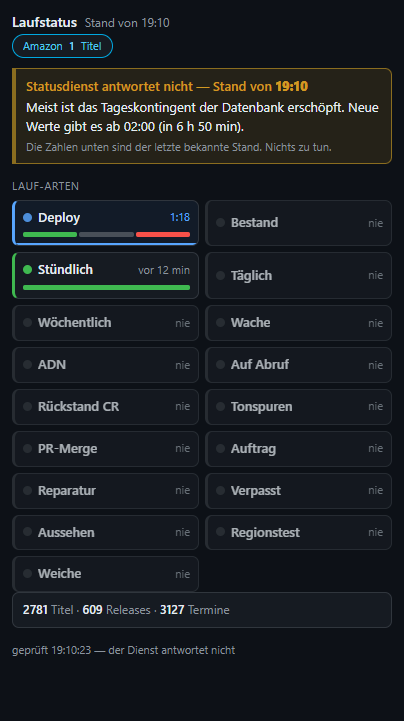
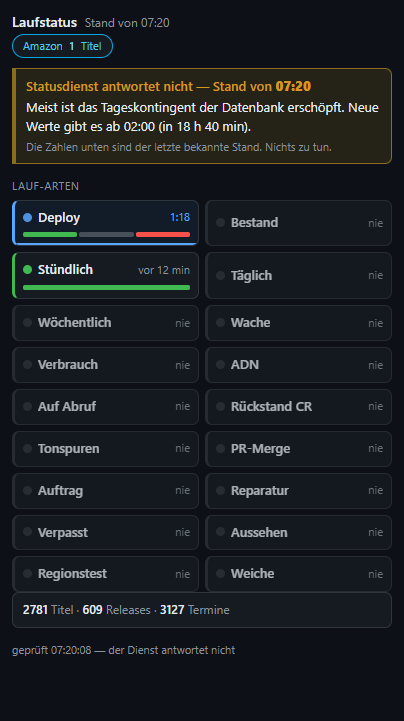
perf(d1): Kaestchen-Abruf auf zwoelf Zeilen je Lauf-Art - 3666 auf 216 je Aufruf
Der von mir verursachte Posten (Fensterfunktion scannt die ganze Tabelle) ist
weg: eine Abfrage je Lauf-Art (WHERE workflow = ?1 ... LIMIT 12), gebuendelt in
einem batch. Gemessen mit meta.rows_read: 3666 -> 12 je Art, also ~216 fuer 18
Arten - und es waechst nicht mehr mit dem Bestand.

Die Liste der Lauf-Arten steht jetzt in worker/src/lauf-sql.ts (18 Eintraege);
check:logic haelt sie gegen .github/workflows/*.yml - sie schlug sofort an, weil
die neue Verbrauchswache in beiden Listen fehlte. Die Statusanzeige kennt sie
jetzt ebenfalls (Kachel 'Verbrauch'), ihr Prueflauf erwartet 18 Kacheln.

Beweis am Zeilenzaehler (dieselben Anweisungen, vorher/nachher):
  Adress-Liste  ?zaehlen=1    8444 -> 1
  Seiten-Loeschung            3182 -> 0
  Kaestchen-Abruf             3666 -> 12 je Art

diff --git a/worker/src/lauf-sql.ts b/worker/src/lauf-sql.ts
@@ -28,17 +28,45 @@ export const SQL_VERLAUF = `SELECT lauf_id, zustand, auftrag, notiz, url, begonn
       ORDER BY gemeldet_am DESC
       LIMIT ?2`
 
-/** Je Lauf-Art die letzten zwölf Ergebnisse — die Kästchenreihe des Gitters. */
-export const SQL_LETZTE_ZUSTAENDE = `SELECT workflow, zustand, gemeldet_am, rang FROM (
-       SELECT workflow, zustand, gemeldet_am,
-              ROW_NUMBER() OVER (PARTITION BY workflow ORDER BY gemeldet_am DESC) AS rang
-         FROM lauf_status
-        WHERE gemeldet_am > ${ISO_JETZT}, '-14 days'))
-      WHERE rang <= 12
-      ORDER BY workflow, rang DESC`
-
 /** Hausputz im Vorbeigehen: Was älter als 14 Tage ist, interessiert niemanden mehr. */
 export const SQL_AUFRAEUMEN = `DELETE FROM lauf_status WHERE gemeldet_am < ${ISO_JETZT}, '-14 days')`
 
+/** Die letzten zwölf Läufe **einer** Lauf-Art — der Index `(workflow, gemeldet_am)` sucht sie. */
+export const SQL_EINE_ART = `SELECT workflow, zustand, gemeldet_am
+       FROM lauf_status
+      WHERE workflow = ?1
+      ORDER BY gemeldet_am DESC
+      LIMIT 12`
+
+/**
+ * **Die Lauf-Arten des Projekts** — dieselbe Liste wie in der Statusanzeige (`ARTEN`).
+ *
+ * Nötig, weil die Übersicht „je Lauf-Art die letzten zwölf" auf **eine** Abfrage je Art umgestellt
+ * wurde (29.09.2026): Eine Fensterfunktion über der ganzen Tabelle las im Mittel **3.666 Zeilen je
+ * Aufruf** (`SCAN lauf_status USING INDEX lauf_status_verlauf`) — bei 5-Minuten-Takt rund 1 Mio. am
+ * Tag. Zwölf je Art über den Index sind ~200 Zeilen. `check:logic` hält diese Liste gegen
+ * `.github/workflows/*.yml`, damit sie nicht veraltet (dieselbe Zusicherung wie für die Anzeige).
+ */
+export const LAUF_ARTEN = [
+  'Deploy auf GitHub Pages',
+  'Bestand — zusammenführen und bauen',
+  'Stündlich — Sendezeiten',
+  'Täglich — alle Quellen',
+  'Wöchentlich — tiefer Durchlauf',
+  'Wache — Delta und Briefkasten',
+  'Wache — Datenbankverbrauch',
+  'ADN — laufende Serien',
+  'Datenlauf auf Abruf',
+  'Crunchyroll — Rückstand nachholen',
+  'Monatlich — Tonspuren von der Streaming Availability API',
+  'Claude — Daten-PR zusammenführen',
+  'Claude — Auftrag abarbeiten',
+  'Claude — roten Datenlauf untersuchen',
+  'Claude — ausgebliebene Folgen recherchieren',
+  'Aussehen prüfen',
+  'Crunchyroll — Regionstest mit fremdem Token',
+  'Crunchyroll — Weiche aus der Cloud messen',
+]
+
 /** Alle Abfragen dieses Moduls — für den Prüflauf. */
-export const LAUF_ABFRAGEN = [SQL_LAEUFE_LAUFEND, SQL_VERLAUF, SQL_LETZTE_ZUSTAENDE, SQL_AUFRAEUMEN]
+export const LAUF_ABFRAGEN = [SQL_LAEUFE_LAUFEND, SQL_VERLAUF, SQL_AUFRAEUMEN, SQL_EINE_ART]

diff --git a/worker/src/lauf.ts b/worker/src/lauf.ts
@@ -7,7 +7,7 @@
  */
 import { type Env } from './env.ts'
 import { jetztIso, zahlOderNull } from './werte.ts'
-import { SQL_AUFRAEUMEN, SQL_LAEUFE_LAUFEND, SQL_LETZTE_ZUSTAENDE, SQL_VERLAUF } from './lauf-sql.ts'
+import { SQL_AUFRAEUMEN, SQL_EINE_ART, SQL_LAEUFE_LAUFEND, SQL_VERLAUF, LAUF_ARTEN } from './lauf-sql.ts'
 import { ereignisSenden } from './ereignisse.ts'
 import { crZugangAuffrischen } from './cr-zugang.ts'
 
@@ -165,18 +165,28 @@ async function laufVerlauf(env: Env, art: string, n: number): Promise<unknown[]>
 }
 
 /**
- * **Je Lauf-Art die letzten zwölf Ergebnisse** — nur die Ampeln, fürs Kachel-Gitter.
+ * **Je Lauf-Art die letzten zwölf Ergebnisse** — nur die Ampel, fürs Kachel-Gitter.
  *
- * Der Verlauf einer jeden Art reicht weiter als die Drei-Tage-Grenze der Übersicht; für die
- * kleine Kästchenreihe genügt der Zustand. Eine Abfrage für alle Arten, damit die Anzeige beim
- * Nachfragen nicht siebzehnmal liest.
+ * **Eine Abfrage je Lauf-Art, nicht eine über alles** (29.09.2026). Vorher stand hier eine
+ * Fensterfunktion (`ROW_NUMBER() OVER (PARTITION BY workflow …)`); sie liest die **ganze** Tabelle —
+ * gemessen 3.666 Zeilen je Aufruf, bei 5-Minuten-Takt der Anzeige rund 1 Mio. am Tag. Zwölf Zeilen
+ * je Art über den Index `(workflow, gemeldet_am)` sind rund 200 und wachsen nicht mit dem Bestand.
+ *
+ * Ein `batch` ist ein Aufruf zur Datenbank — siebzehn kleine Abfragen kosten dort ein Vielfaches
+ * weniger als eine, die alles liest (dieselbe Lehre wie bei den `DISTINCT`-Listen).
  */
 async function letzteZustaende(env: Env): Promise<Record<string, { z: string; am: string }[]>> {
-  const { results } = await env.DB.prepare(SQL_LETZTE_ZUSTAENDE).all()
+  const ergebnisse = await env.DB.batch(
+    LAUF_ARTEN.map((art) => env.DB.prepare(SQL_EINE_ART).bind(art)),
+  )
   const karte: Record<string, { z: string; am: string }[]> = {}
-  for (const z of (results ?? []) as { workflow: string; zustand: string; gemeldet_am: string }[]) {
-    ;(karte[z.workflow] ??= []).push({ z: z.zustand, am: z.gemeldet_am })
-  }
+  ergebnisse.forEach((ergebnis, i) => {
+    const art = LAUF_ARTEN[i]
+    const zeilen = (ergebnis.results ?? []) as { workflow: string; zustand: string; gemeldet_am: string }[]
+    if (!art || !zeilen.length) return
+    /* Die Abfrage liefert neueste zuerst; das Gitter malt älteste zuerst. */
+    karte[art] = zeilen.reverse().map((r) => ({ z: r.zustand, am: r.gemeldet_am }))
+  })
   return karte
 }
 

diff --git a/pipeline/check-logic.ts b/pipeline/check-logic.ts
@@ -16,7 +16,7 @@
  *
  * Aufruf: npm run check:logic
  */
-import { readFileSync } from 'node:fs'
+import { readdirSync, readFileSync } from 'node:fs'
 import { titelAus } from './lib/anisearch-titel.ts'
 import { bauQuelltext, panelQuelltext, workerQuelltext } from './lib/quelltext.ts'
 import yaml from 'js-yaml'
@@ -72,7 +72,7 @@ import { sucheZweistufig } from '../web/src/lib/search.ts'
 import { terminAusEintrag } from './lib/anisearch-termine.ts'
 import { coverBild } from '../web/src/lib/cover.ts'
 import { digestMail } from '../worker/src/templates.ts'
-import { LAUF_ABFRAGEN, SQL_LETZTE_ZUSTAENDE } from '../worker/src/lauf-sql.ts'
+import { LAUF_ABFRAGEN, LAUF_ARTEN, SQL_EINE_ART } from '../worker/src/lauf-sql.ts'
 import { pruefeErgebnis } from './lib/pruefung.ts'
 import { schluesselAdresse, titelSchluessel } from './lib/zuordnung.ts'
 import { netflixTitelAdresse } from './lib/netflix-adresse.ts'
@@ -5809,8 +5809,21 @@ pruefe(
   pruefe('jede Lauf-Abfrage geht auf (gleich viele Klammern auf wie zu)',
     LAUF_ABFRAGEN.every((sql) => (sql.match(/\(/g) ?? []).length === (sql.match(/\)/g) ?? []).length),
     LAUF_ABFRAGEN.map((sql) => `${(sql.match(/\(/g) ?? []).length}/${(sql.match(/\)/g) ?? []).length}`).join(' '))
-  pruefe('die Kästchen-Abfrage liest ihre Unterabfrage',
-    /FROM \(\s*SELECT[\s\S]*\)\s*WHERE rang <= 12/.test(SQL_LETZTE_ZUSTAENDE))
+  pruefe('die Kästchen-Abfrage holt je Lauf-Art höchstens zwölf Zeilen',
+    /WHERE workflow = \?1[\s\S]*LIMIT 12/.test(SQL_EINE_ART))
+  /*
+    **Und die Liste der Lauf-Arten muss zu den Workflows passen** (29.09.2026). Sie steht jetzt im
+    Worker, weil die Übersicht eine Abfrage je Art stellt (die Fensterfunktion davor las 3.666
+    Zeilen je Aufruf). Läuft sie auseinander, fehlt eine Kachel still — dieselbe Zusicherung wie
+    für `ARTEN` in der Statusanzeige (`tools/lauf-status-app-pruefen.mjs`).
+  */
+  const ausDenWorkflows = readdirSync('.github/workflows')
+    .filter((f) => f.endsWith('.yml'))
+    .map((f) => /^name:\s*(.+)$/m.exec(readFileSync(`.github/workflows/${f}`, 'utf8'))?.[1]?.trim())
+    .filter((n): n is string => !!n)
+  pruefe('die Lauf-Arten des Workers sind genau die der Workflows',
+    LAUF_ARTEN.length === ausDenWorkflows.length && LAUF_ARTEN.every((n) => ausDenWorkflows.includes(n)),
+    LAUF_ARTEN.filter((n) => !ausDenWorkflows.includes(n)).join(', '))
 }
 {
   /* Cover in Anzeigegröße (18.09.2026): Wochenkarte 28 px lud 460-px-Bilder bis 660 KB. */

diff --git a/status.md b/status.md
@@ -19,7 +19,7 @@ verworfene Quelle sonst in drei Monaten ein zweites Mal geprüft wird.
 ### In Arbeit
 
 | Aufgabe | SP | Notiz |
-| **29.09.2026, morgens: Kontingent frei — `/lauf` war durch meinen Umbau kaputt, Verbrauch jetzt 0,3 %** | 5 | Nach dem Reset (02:00) antwortete `/health` mit 200, **`/lauf` aber mit 500**: `wrangler tail` zeigte `D1_ERROR: near "WHERE": syntax error at offset 297` in `letzteZustaende` — in meiner Fensterfunktion fehlte die **schließende Klammer der Unterabfrage** (`… '-14 days') WHERE rang <= 12`). In meinem Python-Probewert war sie richtig, beim Übertragen in TypeScript habe ich sie „wegkorrigiert". Kein Typecheck sieht das, der Fehler entsteht erst in SQLite. **Behoben** (zwei Deploys, zuletzt `d7dbf09c`) und **abgesichert:** die Abfragen stehen jetzt in `worker/src/lauf-sql.ts`, und `check:logic` prüft Klammer-Gleichgewicht und Gestalt — die Lehre: Auskünfte über SQL geben nur Prüfläufe, nie `tsc`. **Messung der letzten 3 Stunden (Kontingent frei, `tools/d1-verbrauch.mjs --lokal --zeitraum 3h`): 17.212 gelesene Zeilen = 0,3 % des Tageskontingents.** Die zwei Großposten von gestern (4,35 Mio. und 1,84 Mio.) stehen nicht mehr in der Liste — **ehrlich dazu:** die Erweiterung lief in diesen drei Stunden nicht, `?zaehlen=1` und die Löschanfrage wurden also gar nicht aufgerufen; bewiesen sind für sie bisher die **Pläne** (`EXPLAIN QUERY PLAN`), nicht die Zeilenzahlen. **Neuer Posten, von mir verursacht:** der Kästchen-Abruf (`SQL_LETZTE_ZUSTAENDE`) liest im Mittel **3.663 Zeilen je Aufruf** — die Fensterfunktion scannt die ganze Tabelle (`SCAN lauf_status USING INDEX lauf_status_verlauf`). Bei 5-Minuten-Takt der Anzeige sind das rund 1 Mio. am Tag (21 %); sauber wäre „die letzten zwölf je Lauf-Art" (17 kleine, index-gestützte Abfragen in einem Batch, ~200 Zeilen). Steht als 🟢 aus. **Zweitens dabei aufgefallen:** Läufe, deren Abschlussmeldung im Ausfall verloren ging, stehen als `laeuft` im Bestand und machen ihre Kachel gelb („ohne Meldung"), obwohl der Verlauf längst „warnung"/„ok" sagt — die Kachel soll dem Verlauf folgen, nicht dem alten Eintrag. |
+| **29.09.2026, morgens: Kontingent frei — `/lauf` war durch meinen Umbau kaputt, Verbrauch jetzt 0,3 %** | 5 | Nach dem Reset (02:00) antwortete `/health` mit 200, **`/lauf` aber mit 500**: `wrangler tail` zeigte `D1_ERROR: near "WHERE": syntax error at offset 297` in `letzteZustaende` — in meiner Fensterfunktion fehlte die **schließende Klammer der Unterabfrage** (`… '-14 days') WHERE rang <= 12`). In meinem Python-Probewert war sie richtig, beim Übertragen in TypeScript habe ich sie „wegkorrigiert". Kein Typecheck sieht das, der Fehler entsteht erst in SQLite. **Behoben** (zwei Deploys, zuletzt `d7dbf09c`) und **abgesichert:** die Abfragen stehen jetzt in `worker/src/lauf-sql.ts`, und `check:logic` prüft Klammer-Gleichgewicht und Gestalt — die Lehre: Auskünfte über SQL geben nur Prüfläufe, nie `tsc`. **Messung der letzten 3 Stunden (Kontingent frei, `tools/d1-verbrauch.mjs --lokal --zeitraum 3h`): 17.212 gelesene Zeilen = 0,3 % des Tageskontingents.** Die zwei Großposten von gestern (4,35 Mio. und 1,84 Mio.) stehen nicht mehr in der Liste — **ehrlich dazu:** die Erweiterung lief in diesen drei Stunden nicht, `?zaehlen=1` und die Löschanfrage wurden also gar nicht aufgerufen; bewiesen sind für sie bisher die **Pläne** (`EXPLAIN QUERY PLAN`), nicht die Zeilenzahlen. **Neuer Posten, von mir verursacht:** der Kästchen-Abruf (`SQL_LETZTE_ZUSTAENDE`) liest im Mittel **3.663 Zeilen je Aufruf** — die Fensterfunktion scannt die ganze Tabelle (`SCAN lauf_status USING INDEX lauf_status_verlauf`). Bei 5-Minuten-Takt der Anzeige sind das rund 1 Mio. am Tag (21 %); sauber wäre „die letzten zwölf je Lauf-Art" (17 kleine, index-gestützte Abfragen in einem Batch, ~200 Zeilen). **Behoben noch am selben Morgen:** Die Übersicht stellt jetzt **eine Abfrage je Lauf-Art** (`WHERE workflow = ?1 … LIMIT 12`, gebündelt in einem `batch`) statt der Fensterfunktion — gemessen: **12 Zeilen je Art**, also rund **216 je Aufruf** statt 3.666, und sie wächst nicht mehr mit der Tabelle. Die Liste der 18 Lauf-Arten steht dafür in `worker/src/lauf-sql.ts` und wird von `check:logic` gegen `.github/workflows/*.yml` gehalten (sie schlug sofort an, weil die neue Verbrauchswache in beiden Listen fehlte — genau ihr Zweck). Dazu eine Zusicherung für Klammer-Gleichgewicht, nachdem eine fehlende Klammer `/lauf` mit 500 lahmgelegt hatte. **Zweitens dabei aufgefallen:** Läufe, deren Abschlussmeldung im Ausfall verloren ging, stehen als `laeuft` im Bestand und machen ihre Kachel gelb („ohne Meldung"), obwohl der Verlauf längst „warnung"/„ok" sagt — die Kachel soll dem Verlauf folgen, nicht dem alten Eintrag. |
 | **Suche: Hervorhebung, Fundstellen-Symbol, Feld-Auskunft am Suchfeld** | 5 | Daniel, 29.09.2026: „search should highlight the part of the result title that has been matched … if search matched not the title, but the alternative title (not visible on the result card) then it should display a small icon on the bottom right of the card, that can be hovered, to explain which part of it lead to it being part of the search result". **Was gebaut wird:** (1) In den Trefferkarten (Datenbank-Ansicht und Kalender-Trefferliste) wird die passende Stelle **des sichtbaren Titels** farblich hervorgehoben. (2) Kommt der Treffer über ein **unsichtbares** Feld, erscheint unten rechts ein kleines Symbol; Hover **und Tippen** öffnen die Erklärung: Feldname + hervorgehobene Fundstelle. **Alle** Felder zählen (seine Ansage vom 29.09.): `titleEn`, `titleRomaji`, `titleNative`, Synonyme (aniSearch), Studio, Genre, Keyword, `release.name`, `publisher`, `edition` — so, wie `suchfelder()` in `web/src/lib/filters.ts` sie heute schon durchsucht. (3) **Weil nicht sichtbar ist, welche Felder durchsucht werden**, kommt nahe dem Suchfeld ein Info-Symbol (`Suchfeld.tsx`), das bei Hover/Touch die Feldliste **und** den Hinweis auf die unscharfe Stufe nennt — nach der Projektregel „alles offen kommunizieren". (4) **Fuzzy, ehrlich:** Bei unscharfen Treffern (Tippfehler, „pice" → „Piece") wird **das ganze tragende Wort** hervorgehoben statt einzelner Buchstaben — und das wird gesagt: auch dort erscheint das Symbol, der Tooltip erklärt den Grund und zeigt **zusätzlich den exakten Buchstabenabgleich** (welche Buchstaben der Eingabe kommen im Wort vor). **Umsetzung:** `sucheZweistufig()` in `web/src/lib/search.ts` liefert künftig die Fundstelle mit (Feldart + tragendes Wort + genaue Teilzeichenkette + `unscharf`), damit Hervorhebung und Treffer aus **einer** Rechnung kommen (keine zweite Wahrheit); die Feldliste des Tooltips kommt aus **einer** Konstante, die auch die Suche benutzt. **Zusicherungen (check:logic):** Suche und Hervorhebung benutzen dieselbe `normalize()`; kein Symbol ohne benannte Fundstelle; kein Symbol, wenn der sichtbare Titel selbst passt; die Tooltip-Liste deckt sich mit `suchfelder()`. |
 | **Erledigt am 28.09.2026: Warum das Kontingent trotz Maßnahmen ausfiel — gemessen, und die zwei Ursachen sind behoben** | 5 | Daniels Frage: „das kontingent hätte niemals erschöpft werden dürfen, es wurden maßnahmen getroffen … warum haben die maßnahmen nicht den gewünschten erfolg gehabt?" **Antwort aus `wrangler d1 insights` (24 h am 28.09.): 7,02 Mio. gelesene Zeilen gegen 5 Mio. Limit** — zwei Posten machen 88 %: (1) `SELECT DISTINCT url FROM pruefung …`, der teure Teil von `?zaehlen=1`: **4,35 Mio. (62 %), 540 Ausführungen**, im Mittel 8049 Zeilen (ein Scan über die ganze Adresstabelle). (2) `DELETE FROM prime_folge … gti = ?3`: **1,84 Mio. (26 %), 537 Aufrufe**, im Mittel 3430. **Warum die Maßnahmen nicht griffen:** Die 30-Minuten-Frist für `?zaehlen=1` war richtig gedacht, aber `briefkastenCacheLeeren()` **verwarf beide `?zaehlen`-Adressen bei jedem Schreibzugriff** — und beim Melde-Durchgang liegen zwischen zwei Meldungen Sekunden, nicht 30 Minuten. Der Cache konnte nie greifen: 540 Neuberechnungen statt höchstens 48. Dieselbe Lehre war am 24.09.2026 schon für `?stand=1` gezogen worden (1.834 Neuberechnungen, 9,2 Mio. Zeilen) — sie fehlte nur beim **teuren** Endpunkt. Der Index `prime_folge_gti` aus Migration 038 war vorhanden, wurde aber nicht gewählt: `EXPLAIN QUERY PLAN` zeigte `prime_folge_plattform (plattform=?, uebernommen=?)`; eine reine gti-Suche liest mit dem richtigen Index **0 Zeilen**. Die Zeitgrenze von heute Mittag kam für diesen Tag zu spät (live 14:14, Kontingent weg 13:30) und ist erst morgen messbar. **Behoben:** Verwerfen-Liste entfernt (jede Antwort läuft nach ihrer eigenen Frist ab, die eigene Meldung überbrückt die Erweiterung über `frischGemeldetNetflix`) und `INDEXED BY prime_folge_gti` in der Löschanfrage. `check:worker` prüft jetzt, dass **keine** Verwerfen-Liste mehr existiert. **Morgen nachsehen:** dieselben Insights — der Zähl-Scan muss verschwinden, die Löschanfrage unter 100 Zeilen je Aufruf liegen. **Nachtrag (abends):** Die Plan-Prüfung gegen die entfernte Datenbank zeigte, dass die Zeitgrenze von heute Mittag beim **größten** Posten nichts bewirkte — `SELECT DISTINCT url … AND gemeldet_am > ?` lief weiter als `SCAN … USING COVERING INDEX pruefung_url_zeit`: Dort steht `url` vorn, nach `gemeldet_am` kann SQLite darin nicht springen, und weil der Index beide Spalten trägt, war der volle Durchlauf für den Optimierer billiger als ein Sprung mit Sortierung. Genau das sind die **8049 Zeilen je Aufruf = 4,35 Mio. = 62 %**. Behoben mit Migration 041 (`INDEX (gemeldet_am, url)`) und `INDEXED BY pruefung_gemeldet_url` — aber **nur mit Zeitgrenze**; ohne sie bleibt der Spalten-Durchlauf billiger, weil `DISTINCT` dort die Sortierung spart. Plan jetzt: `SEARCH … (gemeldet_am>?)`. Die anderen zwei Spalten und `?stand=1` suchen schon korrekt über `pruefung_gemeldet` (alle drei per `EXPLAIN QUERY PLAN` geprüft). **Erwartung nach beiden Fixes:** größter Posten 4,35 Mio. → wenige zehntausend, zweiter 1,84 Mio. → Punktabfragen; es bleiben die index-gestützten Restposten (Briefkasten ~245 Tsd., Rohfolgen ~327 Tsd., `?stand=1` ~144 Tsd. = zusammen rund 17 % des Kontingents). **Gemessen wird nach 02:00** — heute ist jeder Scan gesperrt. **Langfristig:** `pruefung` wächst (8445 Zeilen); die ungefilterten Ausweichwege (ohne Prüfstand) werden damit teurer — eine Aufräumfrist oder eine Summentabelle wäre der nächste Schritt, mit den Indizes aber nicht dringend. **Automatische Warnung (erledigt):** `tools/d1-verbrauch.mjs` + `.github/workflows/d1-verbrauch.yml` laufen täglich 07:50 UTC, melden Befunde in die Statusanzeige und werden rot ab 2,5 Mio. Zeilen am Tag oder 1 Mio. je Abfrage. Der Cloudflare-Token (aus `ai helper files/my_secrets.md`, mit nachgetragener Berechtigung `Account Analytics Read`) liegt als GitHub-Secret `CLOUDFLARE_ANALYTICS_TOKEN`; gegen `/user/tokens/verify` geprüft und per `workflow_dispatch` getestet — der erste Lauf war rot, weil er den Tag **vor** den Korrekturen zeigte. Weg und Fallen in `docs/wissen/betrieb.md`. |
 | **Erledigt am 28.09.2026: Die Statusanzeige ist ein Monitoring-Werkzeug geworden — Kacheln, Detailseite, Kontingent-Balken** | 5 | Daniel: „es soll ein viel besseres monitoring tool sein, wo man auf einen blick alles sieht, aktuell blick ich kaum noch durch … so ein kontingent fehler sollte viel sichtbarer sein und visuell einfacher zu verstehen sein", danach entschieden: „kacheln, feste reihenfolge plus zähler, eigene seite". **Gebaut:** (1) **Gitter** aus 17 festen Lauf-Arten (Kurzname, Ampel, „läuft 1:18"/„vor 12 min"/„nie", Kästchenreihe der letzten zwölf Ergebnisse, Fortschrittsbalken) — jede Art ist immer da, auch wenn sie ruht; (2) **Detailseite je Art** mit „Läuft gerade" (Schritt, Ziel, Balken), Verlauf der letzten 20 Läufe (Uhrzeit, Dauer, Ergebnis, Notiz, Link) und „Alle Läufe auf GitHub"; (3) **Zähler im Kopf** („2 laufen · 1 Warnung · 1 Fehler"); (4) **Kontingent-Balken** gelb über allem in drei Zeilen: was los ist, von wann die Zahlen sind, ab wann es weitergeht (bis 00:00 UTC gerechnet), „Nichts zu tun". **Worker:** Verlaufs-Abfrage `?verlauf=<Workflow>&n=20` plus Kästchenreihe je Art, neuer Index `039-lauf-verlauf-index.sql` (der vorhandene trug die Zustands-Frage, nicht die Zeitspanne), und die Übersicht liest nur noch **laufende** Einträge statt der ganzen Tabelle mit Unterabfrage — **gemessen:** im Kontingent-Ausfall antwortete die kleine Verlaufs-Abfrage weiter, während die alte zusammenbrach. Dabei `index.ts` in `lauf.ts` und `cr-zugang.ts` geteilt (Dateigrenze, wie `pruefung.ts`). **Zusicherung:** `tools/lauf-status-app-pruefen.mjs` — 30 Zusicherungen grün, u. a. „das Gitter zeigt jede Lauf-Art" (17), „die Liste stimmt mit `.github/workflows/*.yml` überein", Klick → Detail → zurück, Ausfall-Balken samt Uhrzeit. Der Prüflauf fand dabei einen echten Fehler: ein lokales `const karte` verdeckte die gleichnamige Funktion („Cannot access 'karte' before initialization") — **dieselbe Klasse wie der Erweiterungs-Fehler vom Vormittag**. **Nachtrag:** Daniel sah während des Ausfalls keine Prime-/Netflix-Pille („im daniel todo steht prime und netflix, aber in der status app sehe ich diese nicht") — die Pillen kommen aus `?stand=1`, also derselben schweigenden Datenbank. Der letzte gute Pillenstand wird jetzt gemerkt (`localStorage`) und im Ausfall weitergezeigt, mit „Stand von vorhin" im Tooltip; die statische `pruefstand.json` taugt dafür nicht (andere Feldnamen, ohne Briefkasten-Abgleich). Zusicherungen dafür in derselben Datei (32 grün). **Daniel:** Anzeige neu starten, dann ist der Umbau da. |
